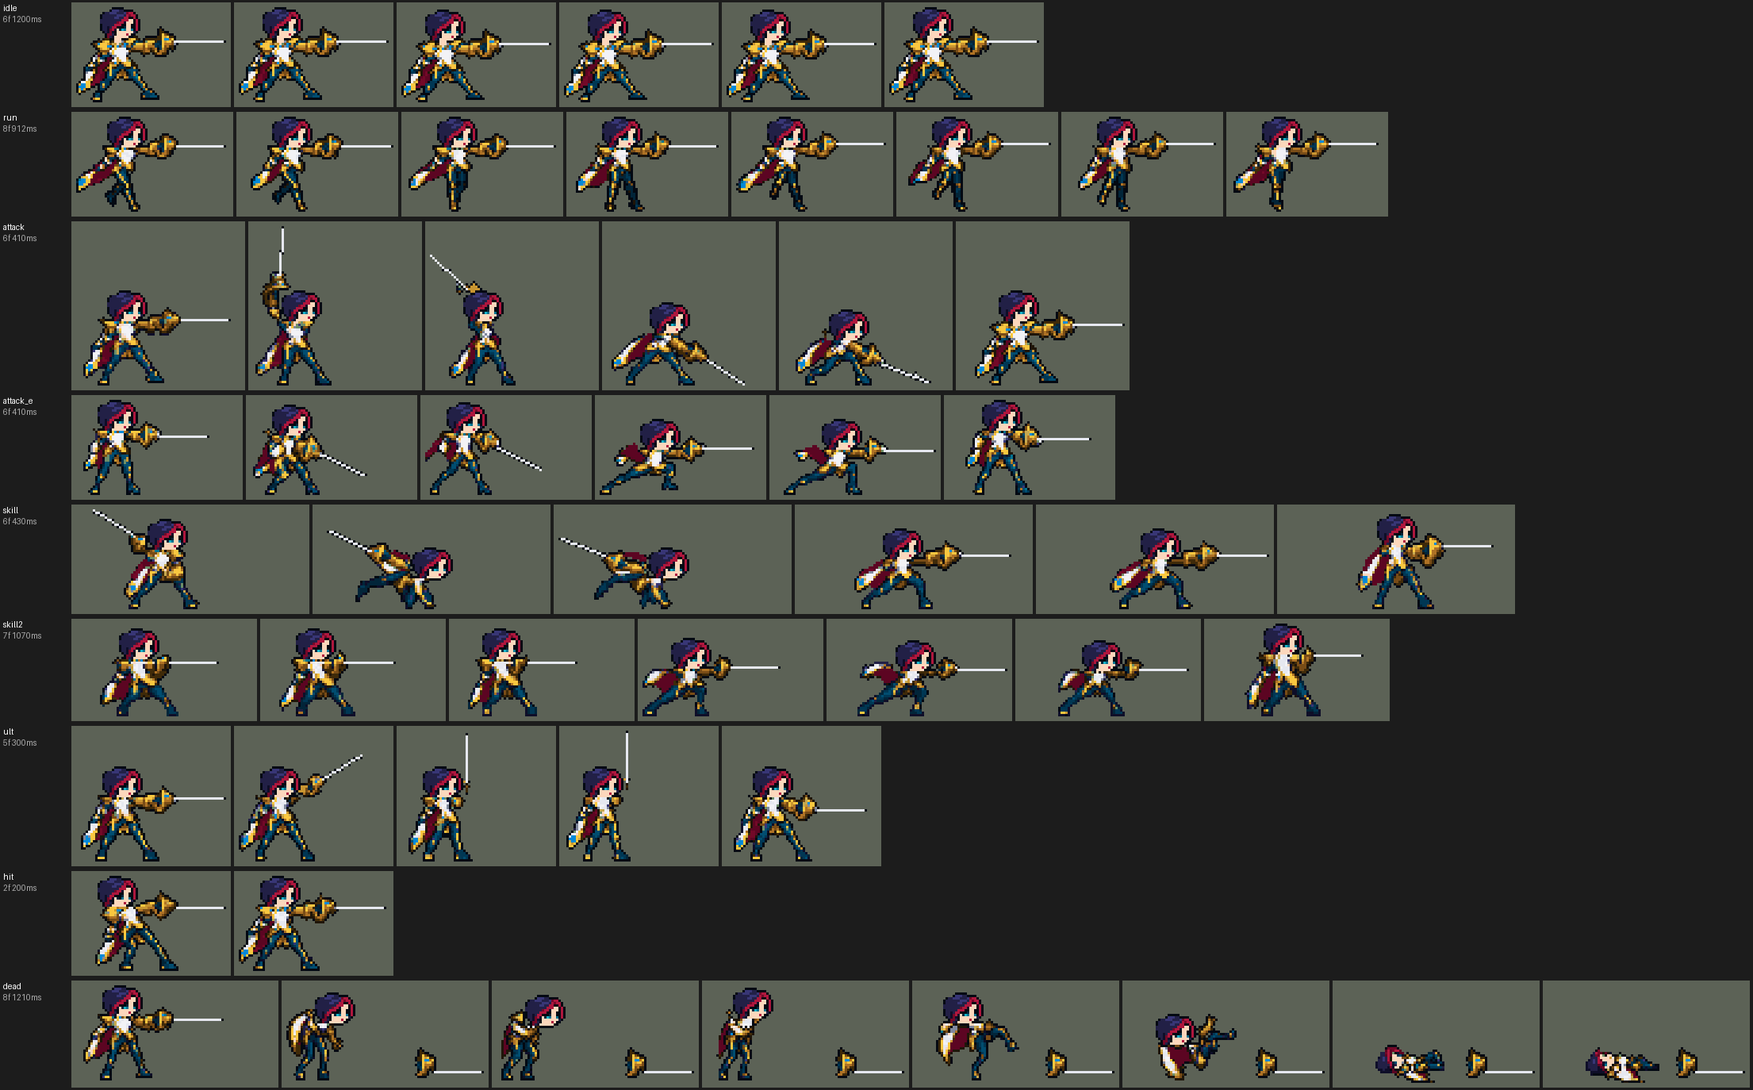
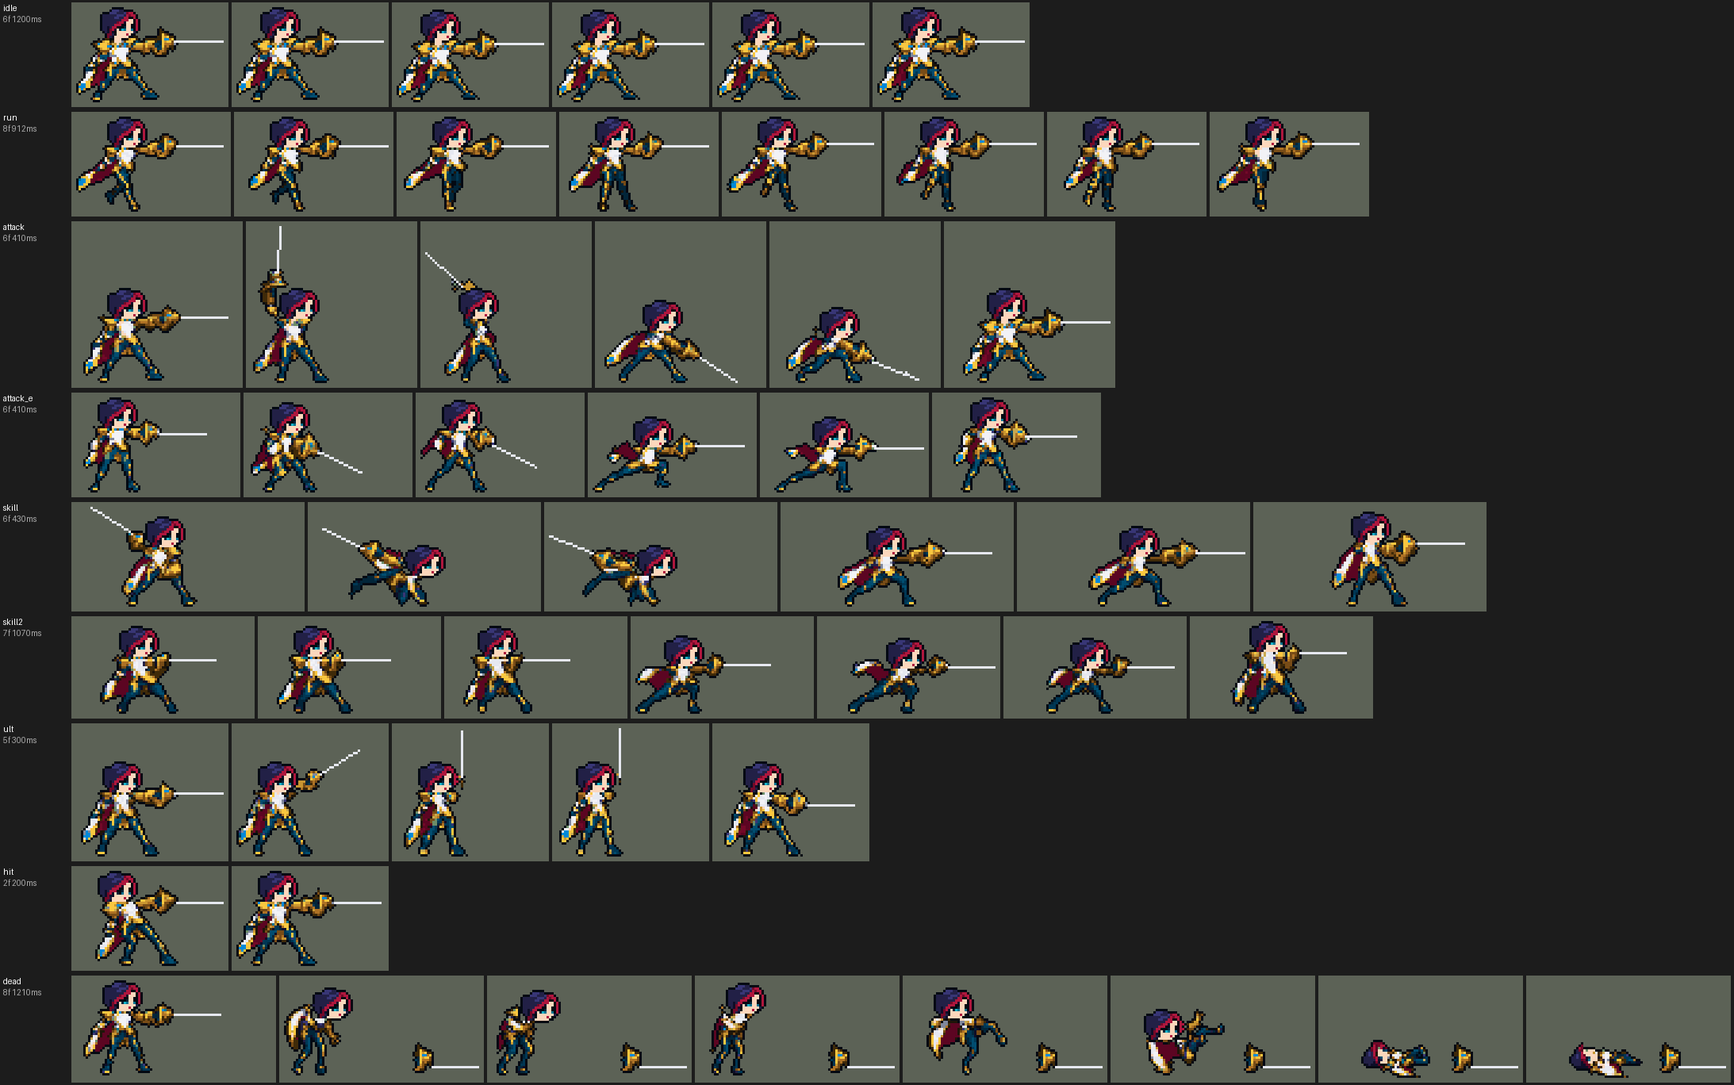
Fiora: a clean black outline (one ring, one pixel, no crumbs, a bare rapier)
The user: "最后剑姬模型 黑色描边处理一下 弄干净点". New
strips.clean_outline, run after complete_outline for heroes in
import_native's CLEAN (Fiora), the face box round the eyes untouched:
- ring: edge pixels in a near-black material shade (her darkest teal, wine,
  brown, hair navy) become the outline black (2213 px over 54 frames);
- thick: black pixels doubling the ring from inside take their neighbours'
  colour (168); speck: lone black crumbs likewise (400);
- corner: the outer pixel of a doubled diagonal staircase goes (271);
- bare: a slanted rapier is runs of two or three pixels and complete_outline
  capped both ends of every run - a dashed black-and-white line; BARE names
  the blade colour and every black pixel touching only it is cleared (172).
Metrics pass, every frame one piece (the death's dropped sword aside), the
face point unchanged; other heroes' sheets are byte-identical.

diff --git a/.claude/skills/tfm2-hero-mod/scripts/strips.py b/.claude/skills/tfm2-hero-mod/scripts/strips.py
@@ -384,6 +384,92 @@ def drop_lonely(f):
     return out
 
 
+def clean_outline(f, color, dark=40, keep=None, bare=()):
+    """Tidy a closed outline (run after complete_outline): one black ring, one pixel thick, no crumbs.
+      bare    a `color` pixel whose coloured 8-neighbours are all in a `bare` colour (a blade drawn as a bare
+              one-pixel line) with one of them 4-next to it is cleared: a slanted line is runs of two or three
+              pixels, and complete_outline caps both ends of every run, which reads as a dashed black-and-white
+              line;
+      ring    an edge pixel (4-next to clear) darker than `dark` in another colour (a material's darkest shade
+              standing in for the outline) becomes `color`, so the ring is black all round;
+      thick   an inner `color` pixel 4-next to the ring whose other `color` 8-neighbours are all ring pixels (a
+              bump doubling the ring, not an interior line) takes its neighbours' commonest other colour;
+      speck   an inner `color` pixel with at most one `color` 8-neighbour (a crumb) does the same;
+      corner  a ring pixel with no coloured 4-neighbour whose `color` 8-neighbours stay joined without it (the
+              outer pixel of a doubled diagonal staircase) is cleared.
+    `keep` pixels (the face) never change. Returns (picture, {rule: pixels})."""
+    f = f.copy()
+    col = np.array(color, f.dtype)
+    H, W = f.shape[:2]
+    keep = np.zeros((H, W), bool) if keep is None else keep
+    caps = np.zeros((H, W), bool)
+    if bare:
+        op = f[..., 3] > 0
+        blk = op & (f[..., :3] == col).all(-1)
+        isbare = op & np.any([(f[..., :3] == np.array(c, f.dtype)).all(-1) for c in bare], axis=0)
+        other = op & ~blk & ~isbare
+        q_o, q_b = np.pad(other, 1), np.pad(isbare, 1)
+        near_other = np.zeros((H, W), bool)
+        near_bare4 = np.zeros((H, W), bool)
+        for dy in (-1, 0, 1):
+            for dx in (-1, 0, 1):
+                if dy or dx:
+                    near_other |= q_o[1 + dy:H + 1 + dy, 1 + dx:W + 1 + dx]
+                    if not (dy and dx):
+                        near_bare4 |= q_b[1 + dy:H + 1 + dy, 1 + dx:W + 1 + dx]
+        caps = blk & near_bare4 & ~near_other & ~keep
+        f[caps] = 0
+    op = f[..., 3] > 0
+    p = np.pad(op, 1)
+    edge = op & ~(p[:-2, 1:-1] & p[2:, 1:-1] & p[1:-1, :-2] & p[1:-1, 2:])
+    blk = op & (f[..., :3] == col).all(-1)
+    ring = edge & op & (lum(f[..., :3]) < dark) & ~blk & ~keep
+    f[ring, :3] = col
+    blk |= ring
+
+    def count(m, n8):
+        q = np.pad(m, 1).astype(np.int8)
+        steps = [(dy, dx) for dy in (-1, 0, 1) for dx in (-1, 0, 1) if (dy or dx) and (n8 or not (dy and dx))]
+        return sum(q[1 + dy:H + 1 + dy, 1 + dx:W + 1 + dx] for dy, dx in steps)
+
+    inner = blk & ~edge & ~keep
+    thick = inner & (count(blk & edge, False) > 0) & (count(inner, True) == 0)
+    speck = inner & ~thick & (count(blk, True) <= 1)
+    for y, x in zip(*np.nonzero(thick | speck)):
+        votes = {}
+        for dy in (-1, 0, 1):
+            for dx in (-1, 0, 1):
+                yy, xx = y + dy, x + dx
+                if (dy or dx) and 0 <= yy < H and 0 <= xx < W and op[yy, xx] and not blk[yy, xx]:
+                    c = tuple(int(v) for v in f[yy, xx, :3])
+                    votes[c] = votes.get(c, 0) + (1 if dy and dx else 2)
+        if votes:
+            f[y, x, :3] = max(votes, key=votes.get)
+    blk = (f[..., 3] > 0) & (f[..., :3] == col).all(-1)
+    coloured = (f[..., 3] > 0) & ~blk
+    corner = np.zeros((H, W), bool)
+    for y, x in zip(*np.nonzero(blk & edge & ~keep)):
+        if any(0 <= y + dy < H and 0 <= x + dx < W and coloured[y + dy, x + dx]
+               for dy, dx in ((-1, 0), (1, 0), (0, -1), (0, 1))):
+            continue
+        nb = [(dy, dx) for dy in (-1, 0, 1) for dx in (-1, 0, 1)
+              if (dy or dx) and 0 <= y + dy < H and 0 <= x + dx < W and blk[y + dy, x + dx] and not corner[y + dy, x + dx]]
+        if len(nb) < 2:
+            continue
+        seen, todo = {nb[0]}, [nb[0]]
+        while todo:
+            cy, cx = todo.pop()
+            for n in nb:
+                if n not in seen and max(abs(n[0] - cy), abs(n[1] - cx)) == 1:
+                    seen.add(n)
+                    todo.append(n)
+        if len(seen) == len(nb):
+            corner[y, x] = True
+            f[y, x] = 0
+    return f, {"bare": int(caps.sum()), "ring": int(ring.sum()), "thick": int(thick.sum()), "speck": int(speck.sum()),
+               "corner": int(corner.sum())}
+
+
 # ----------------------------------------------------------------------------- output
 def centre_frame(arr, u0, r0):
     """Trim to the content and pad symmetrically so the pivot pixel is the exact centre (odd size)."""

diff --git a/tools/art/import_native.py b/tools/art/import_native.py
@@ -65,6 +65,13 @@ COMPLETE = {"nami", "veigar", "jax", "ahri", "fiora"}
 # leggings (luminance ~58) and wine cape (~44) edge many action frames without black: tfm2_ase.py metrics counts only
 # luminance < 40 as outline, so at 70 her Q frames read 83-89% (the bare rapier aside); at 40 they close too.
 DARK = {"fiora": 40}
+# heroes whose closed outline strips.clean_outline then tidies (one black ring, one pixel thick, no crumbs; the face
+# box round the EYES colour untouched). Fiora's Codex frames mixed black with her darkest teal, wine and brown on
+# the ring, doubled it inside and left loose black crumbs on the legs (the user: "黑色描边处理一下 弄干净点").
+CLEAN = {"fiora"}
+# hero: colours of a blade drawn as a bare one-pixel line; clean_outline clears the black caps complete_outline puts
+# on the ends of every run of a slanted one (Fiora's rapier in Q, the crit and the salute read as a dashed line)
+BARE = {"fiora": [(0xE6, 0xE8, 0xF0)]}
 ORDER = {("lux", "idle"): [0, 0, 0, 0, 0, 0],   # the step-2 idle is the design in all six (was 0 1 2 3 5 4)
          # League leans his upper body a square forward in idle 4-5 and back in 6, and every frame's head
          # is voted anew, so the face swung and changed shape as he breathed (the user). Frame 1 in every
@@ -409,9 +416,10 @@ def breathe(hero, sheet):
 
 
 def close_outline(hero, sheet):
-    """COMPLETE: strips.complete_outline on every frame, in idle frame 1's outline colour; (added, darkened)."""
+    """COMPLETE: strips.complete_outline on every frame, in idle frame 1's outline colour, then CLEAN:
+    strips.clean_outline; (added, darkened, {clean rule: pixels})."""
     if hero not in COMPLETE:
-        return 0, 0
+        return 0, 0, {}
     first = sheet["idle"][0][0]
     op = first[..., 3] > 0
     p = np.pad(op, 1)
@@ -419,16 +427,26 @@ def close_outline(hero, sheet):
     dark = [tuple(int(v) for v in c) for c in first[edge & (G.lum(first[..., :3]) < 70)][:, :3]]   # the commonest
     colour = max(set(dark), key=dark.count)
     added = darkened = 0
+    tidy = {}
     for tag, frames in sheet.items():
         for k, (a, ms) in enumerate(frames):
             b = np.pad(a, ((1, 1), (1, 1), (0, 0)))              # room for an outline round the widest pixel
             c = b.shape[0] // 2
             low = int(np.nonzero(b[..., 3].any(1))[0].max())
             b, n, d = G.complete_outline(b, color=colour, dark=DARK.get(hero, 70), feet=max(c + SOLES, low))
+            if hero in CLEAN:
+                face = np.zeros(b.shape[:2], bool)
+                ys, xs = np.nonzero((b[..., :3] == EYES[hero]).all(-1) & (b[..., 3] > 0))
+                if len(ys):
+                    cy, cx = int(ys.mean()), int(xs.mean())
+                    face[max(0, cy - 6):cy + 6, max(0, cx - 7):cx + 7] = True
+                b, counts = G.clean_outline(b, colour, dark=DARK.get(hero, 70), keep=face, bare=BARE.get(hero, ()))
+                for rule, v in counts.items():
+                    tidy[rule] = tidy.get(rule, 0) + v
             frames[k] = (G.centre_frame(b, -(b.shape[1] // 2), -c), ms)
             added += n
             darkened += d
-    return added, darkened
+    return added, darkened, tidy
 
 
 def flatness(frames):
@@ -474,9 +492,11 @@ def main():
         if touched:
             print(f"{hero}_retouch.json: {touched} pixels retouched")
         breathe(hero, sheet)
-        added, darkened = close_outline(hero, sheet)
+        added, darkened, tidy = close_outline(hero, sheet)
         if added or darkened:
             print(f"{hero}: outline closed with {added} pixels added, {darkened} darkened on the feet line")
+        if tidy:
+            print(f"{hero}: outline tidied: " + ", ".join(f"{k} {v}" for k, v in tidy.items()))
         w, h = G.write_sheet(os.path.join(MOD, "champions", f"league_{hero}"), sheet)
         frames = [a for fr in sheet.values() for a, _ in fr]
         colours = len(np.unique(np.concatenate([a[a[..., 3] > 0][:, :3] for a in frames]), axis=0))

diff --git a/README.md b/README.md
@@ -66,7 +66,7 @@
 
 ![贾克斯演示：跑进场，Q 跳斩跳到德莱厄斯身上，落地用掉蓄力一击（落地尘土加紫能环）；三次普攻叠无情连打，第三下触发武器大师的被动（金色四角星）；E 反击风暴：灯柱在头顶一转，脚下紫色旋风转 1.5 秒，架势里照常挥击，结束时火环炸开、德莱厄斯眩晕 1 秒；蓄力一击好了再重砸一下；盖伦走到德莱厄斯身后，R 武器大师跳起砸地，裂地冲击波打中两人，之后脚下金色光环，改用反手突刺，每第二下触发被动，德莱厄斯倒下](docs/preview/league_jax_showcase.gif?v=0930jx)
 
-![菲奥娜演示：跑进场，Q 破空斩冲到德莱厄斯身上（出发点留下尘土和风痕），这一刺在他身上亮出一处破绽（蓝色菱形纹章），顺带发动夺命连刺（她身边的蓝白光线）；第一下普攻减速并刺中破绽（蓝色玫瑰碎裂、她脚下的速度线），第二下暴击（金色 X 形闪光），再普攻一下；W 劳伦特心眼刀：身前的月牙剑光招架 0.75 秒，德莱厄斯砍在上面，随后一道剑气刺穿他，因为挡下过伤害，他眩晕 1 秒（头顶的金星），这一刺也亮出了下一处破绽（离上次刺中已过 3 秒）；R 无双挑战：举剑致意，他身边的金环亮出四处破绽，同时发动夺命连刺，两下快攻刺中两处（金色玫瑰碎裂，下一段少一枚），冷却好了的 Q 冲上去刺中第三处；德莱厄斯后撤，她追着跑、刺得慢了，刺中破绽后冷却减半的 Q 一回来就冲上去刺中第四处，他脚下留下胜利之地（金色光圈，冒着绿色和金色的光点），德莱厄斯倒下](docs/preview/league_fiora_showcase.gif?v=1001fi4)
+![菲奥娜演示：跑进场，Q 破空斩冲到德莱厄斯身上（出发点留下尘土和风痕），这一刺在他身上亮出一处破绽（蓝色菱形纹章），顺带发动夺命连刺（她身边的蓝白光线）；第一下普攻减速并刺中破绽（蓝色玫瑰碎裂、她脚下的速度线），第二下暴击（金色 X 形闪光），再普攻一下；W 劳伦特心眼刀：身前的月牙剑光招架 0.75 秒，德莱厄斯砍在上面，随后一道剑气刺穿他，因为挡下过伤害，他眩晕 1 秒（头顶的金星），这一刺也亮出了下一处破绽（离上次刺中已过 3 秒）；R 无双挑战：举剑致意，他身边的金环亮出四处破绽，同时发动夺命连刺，两下快攻刺中两处（金色玫瑰碎裂，下一段少一枚），冷却好了的 Q 冲上去刺中第三处；德莱厄斯后撤，她追着跑、刺得慢了，刺中破绽后冷却减半的 Q 一回来就冲上去刺中第四处，他脚下留下胜利之地（金色光圈，冒着绿色和金色的光点），德莱厄斯倒下](docs/preview/league_fiora_showcase.gif?v=1001fi5)
 
 ## 英雄：盖伦
 
@@ -1336,7 +1336,7 @@ python tools/art/preview_fiora.py
 - 原画和造型：先写原画提示词包，Codex 画了 A（细剑平举的决斗架势）、B 两张，用户选 A。再让 Codex 直接按游戏尺寸画两版造型（B 的头大一些，像原版英雄），交回的原稿格子比要求的大（A 62 行、B 51 行），用 `regrid.py` 按原稿自己的格子取回像素，各做 40、42、44 行，用户选了 B40。`design_fiora.py`：取像素、对到 24 色（眼睛的青色只留在眼睛上）、只留一圈描边、按行列删到 40 行（脸那几行、几列不删），细剑在护手右边只留一行亮银色、不描边（Codex 画成两格粗，描边又把它围了一圈）；领口三颗宝石原来吸成了眼睛的青色，改回宝石蓝；用户看到"眼睛上有白色的方块"，选了改法 2：眼睛上方两格浅灰改成睫毛黑，白色角上那格改成瞳孔色。
 - 动作参考（`poses.json`）：镜头 yaw 45、pitch 25，不镜像，头 2.3、腿 0.8、头发 0.6，细剑（`Weapon`）放大 2 倍、贴在右手上，高度 40，120×112 的格子。待机 `Fiora_Idle1`，移动 `fiora_runwalk`（8 帧 × 114 ms，平地，头保持待机时的样子），普攻 `fiora_attack1`，暴击 `fiora_crit`，Q `fiora_spell1` 接 `fiora_crit`，W `fiora_spell2_in`（3 帧 × 250 ms 招架）接 `fiora_spell2`（4 帧 × 80 ms 刺出），R 用致意 `fiora_taunt`（50/50/60/70/70 ms，共 18 tick），受击取 `fiora_death` 开头和待机混合，死亡 `fiora_death`。
 - 动作：Codex 按参考帧画了 9 条（每帧贴定稿的头）。移动的第一版 8 帧两条腿一直是同一条在前（用户选"给 Codex 返修走路"），返修包附一张指引图：英雄联盟的原版走路，近侧腿涂橙、远侧腿涂蓝；返修只改髋部以下（第 81–97 行）：第 1–3 帧近侧腿着地在前，第 5–7 帧远侧腿在前，第 3–4、7–8 帧两腿在身下交错。
-- 导入：待机 6 帧用定稿，第 3–5 帧从第 8 行（靴口）往下沉一格呼吸（`BOB`）；按眼睛的青色定头的位置（`EYES`）。Codex 按英雄联盟的站位放各条动作，头大约在站位点上方，而定稿的待机按脚的中间站，差 9 列，待机的站位点右移 9 列（`fiora_cells.json`）。描边补齐（`COMPLETE`）时，深青的腿（亮度约 58）和酒红的披风（约 44）不算描边，默认的阈值 70 会让 Q 的几帧只有 83–89% 的边是黑的，所以剑姬的阈值设为 40（`DARK`），补齐后 98–100%（细剑那一格裸线不算）。头像截取点 (1, −39)。待机最高点 −28，按规则不用设 `banpick_center`（锐雯、薇恩、阿卡丽也是 −28），但平举的细剑会伸出选人卡片的右边，设 (0, −11) 让卡片把它裁在画布里（剑尖少一截）。
+- 导入：待机 6 帧用定稿，第 3–5 帧从第 8 行（靴口）往下沉一格呼吸（`BOB`）；按眼睛的青色定头的位置（`EYES`）。Codex 按英雄联盟的站位放各条动作，头大约在站位点上方，而定稿的待机按脚的中间站，差 9 列，待机的站位点右移 9 列（`fiora_cells.json`）。描边补齐（`COMPLETE`）时，深青的腿（亮度约 58）和酒红的披风（约 44）不算描边，默认的阈值 70 会让 Q 的几帧只有 83–89% 的边是黑的，所以剑姬的阈值设为 40（`DARK`），补齐后 98–100%（细剑那一格裸线不算）。最后按用户的「黑色描边处理一下 弄干净点」再清一遍（`CLEAN`，`strips.clean_outline`，脸部那块不动）：外圈原来一段黑、一段是她最深的青、酒红、棕，统一成黑色（2213 格）；描边内侧多贴的一层黑削掉（168 格）；身体里散落的单个黑点换成周围的颜色（400 格）；斜线台阶外侧多出的一格去掉（271 格）；斜着的细剑断成一段段两格长的短线，描边补齐给每段两头都加了黑头，看起来是黑白虚线，只挨着剑身亮色的黑头全部去掉（`BARE`，172 格），剑身成了一条干净的亮线。头像截取点 (1, −39)。待机最高点 −28，按规则不用设 `banpick_center`（锐雯、薇恩、阿卡丽也是 −28），但平举的细剑会伸出选人卡片的右边，设 (0, −11) 让卡片把它裁在画布里（剑尖少一截）。
 - 特效用 Codex 画的 18 张（107 帧），交的是生图原稿（半透明边、颜色没锁色板、蓝色和金色的光外面包着一圈最深色）：`import_fiora.py --raw` 按交付清单切帧，每个游戏像素取它覆盖的原图像素的多数色、有三分之一不透明才画，颜色只吸到这张特效要的色阶（钢色、破绽蓝、金色、治疗绿、尘土），最深的蓝、金色在边上的一格去掉（旁边有两格更亮的撑住形状时）或提亮一级。按技能定大小：命中 16–20 px，暴击 26 px，破绽 14 px 高、刺中 30 px，R 刺中 32 px，招架月牙 44 px 高，W 剑气 56 px 长（直线 55000），减速寒气 20 px 宽，眩晕星 18 px，胜利之地 72 px 宽（半径 35000），夺命连刺的光线格子 36 px 宽（绕着她 40 px 的身体），速度线 26 px，尘土 32 px。W 剑气按白色的芯（第 71 行）上下镜像成严格对称（游戏会把它转到刺的方向）；招架月牙在 4 帧里左右漂了 35 个原图像素，按月牙最右边对齐；减速寒气的圈在第 4、5 帧往上跑，按圈最宽的几行对齐；R 起手的四枚破绽画得比常驻的散开，横向压到 72/84、下移 4 个原图像素，起手画完正好接上常驻的四枚（常驻的第一段因此从第 22 tick 开始）；刺中破绽的蓝色玫瑰缩到 30 px 后花瓣线比一格还细，底色从深蓝提亮一级。招架月牙原来挂在招架 buff 上，buff 的画面不随朝向镜像，她朝左出 W 时月牙跑到身后、和剑对不上（用户：「W格挡会和剑的位置不一致」），先改成 W 出手时播的施法者画面（朝左时镜像），但施法者画面只能朝左或朝右，往下出 W 时月牙立在身侧、和往下的剑气成直角（用户：「剑姬格挡还会歪？」，选了「跟着出招方向转」），最后挂在一个朝目标飞、每 tick 只爬 0.1 px 的投射物上（卢锡安 Q 的做法：从她身体中心指向目标，画面单独抬高 9 px）：月牙转到出招方向，和剑气一条线，上下镜像成对称（往左时整张图转 180°），每帧往回挪抵消投射物爬的距离，0.75 秒后是空帧；刺中破绽后脚下往后拖的速度线也一样（用户：「速度线也一样改了吧」），每次刺中播 0.75 秒（加速最强的那半段），大招里连着刺中时前后两段会叠一下。时长按技能：破绽和剩下的破绽每段 20 tick（技能每 20 tick 播一段），R 起手 22 tick，W 剑气 11 tick（直线存在的时间），眩晕星 1 秒，胜利之地 3 秒（1–2 帧展开，3–6 帧循环 6 次，7–8 帧散去）。
 - 出手时刻和动画对齐：普攻第 3 帧（第 9 tick），Q 在冲到目标身上时刺中（`MoveToTarget` 到达），W 招架 45 tick 后第 47 tick 刺出，R 致意 18 tick。
 

diff --git a/.claude/skills/tfm2-hero-mod/references/art-spec.md b/.claude/skills/tfm2-hero-mod/references/art-spec.md
@@ -563,6 +563,12 @@ The route used for Garen in TFM2-League-Heroes: prompts in `assets/source/<hero>
   A mid-dark edge colour is not outline to `metrics` (luminance under 40) yet stays unringed at the threshold 70:
   league_fiora's teal leggings (~58) and wine cape (~44) left her Q frames at 83-89%; `import_native.py` `DARK` sets
   the threshold per hero (hers 40: 98-100%, the bare rapier aside).
+  Then tidy it (`strips.clean_outline`, `import_native.py` `CLEAN`; the user on Fiora: "黑色描边处理一下 弄干净点"):
+  an edge pixel in a material's near-black shade becomes the outline colour (one black ring, not black here and dark
+  teal there), a black pixel doubling the ring from inside and a lone black crumb take their neighbours' colour, the
+  outer pixel of a doubled diagonal staircase goes; the face box stays. A blade drawn as a bare one-pixel line
+  breaks into runs of two or three when slanted, and complete_outline caps both ends of every run: a dashed black-
+  and-white line. `BARE` names the blade colour and clean_outline clears every black pixel that touches only it.
 - **Keep the neck the same in every frame.** With the design's head pasted into redrawn frames, align a loop's frames
   on the head and check that the shoulders sit the same number of rows under the chin. Codex drew league_nami's
   swimming body a row lower under the head in four of the eight run frames: her neck stretched and shrank as she bobbed
